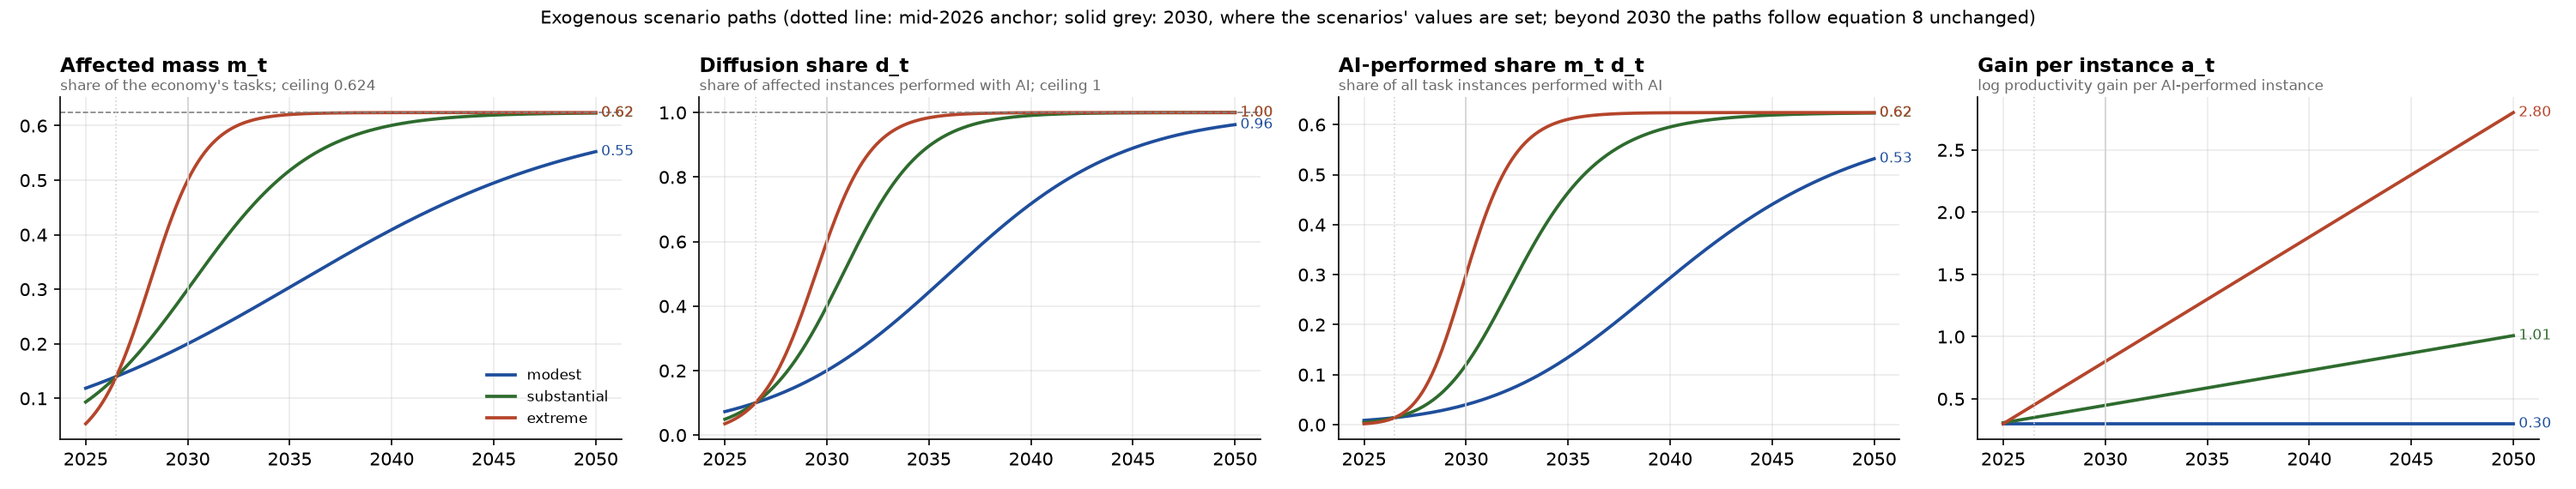
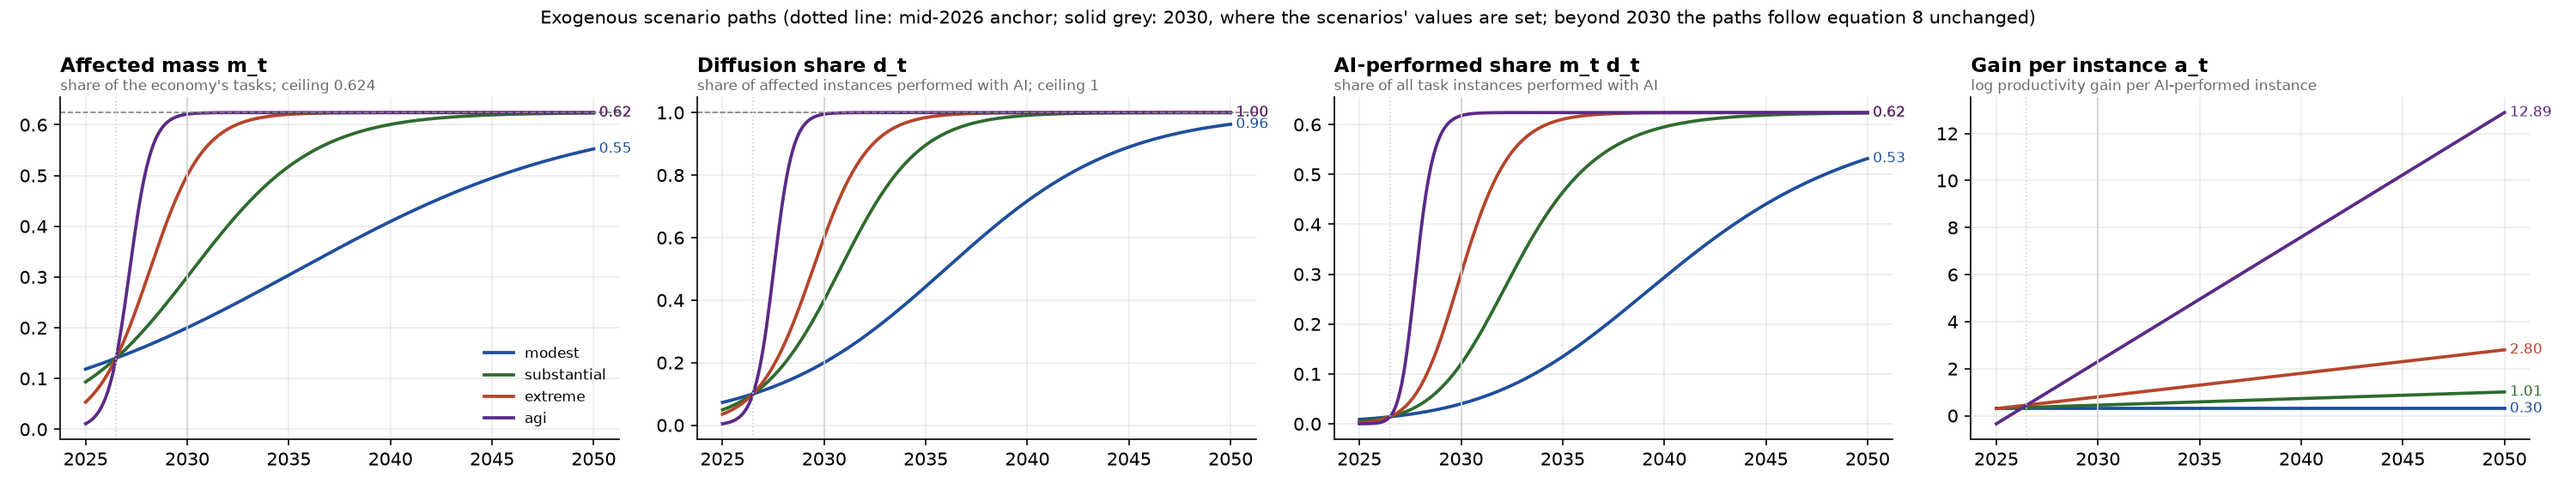
add AGI case

diff --git a/src/aimacro/calibration.py b/src/aimacro/calibration.py
@@ -10,6 +10,9 @@ from __future__ import annotations
 from dataclasses import dataclass, replace
 
 
+DEFAULT_SC_OVER_SL = 0.624   # cognitive share of employment, also the ceiling of the affected mass
+
+
 @dataclass(frozen=True)
 class Params:
     """Parameters common to all scenarios (Table 1, panels A and D)."""
@@ -17,7 +20,7 @@ class Params:
     # --- A. Technology, factor markets, ideas production ------------------
     sigma: float = 0.5            # elasticity of substitution across tasks
     sL0: float = 0.60             # base-period labor share
-    sC_over_sL: float = 0.624     # cognitive share of employment (CPS 2025)
+    sC_over_sL: float = DEFAULT_SC_OVER_SL  # cognitive share of employment (CPS 2025)
     r_bar: float = 0.115          # no-AI gross rental rate, per year
     delta: float = 0.05           # depreciation, per year (net return 6.5%)
     t0: float = 2024.0            # base period
@@ -136,6 +139,23 @@ EXTREME = Scenario(
     psi=0.90, rho=0.0, mu=0.04, thetaH=0.50,
 )
 
-SCENARIOS: dict[str, Scenario] = {s.name: s for s in (MODEST, SUBSTANTIAL, EXTREME)}
+# An AGI scenario beyond the paper's three (added in this repository, not in the paper).
+# AI reaches essentially all cognitive tasks and performs 99 percent of their instances by the
+# start of 2030, all of them automated (no augmentation, no new tasks), and the gain per task is
+# tenfold (ln 10 = 2.30 log points) at that date, still rising linearly afterwards as eq. (8)
+# prescribes.  Frictions are those of the extreme scenario.  The affected mass and the
+# diffusion share split the 99 percent symmetrically so that neither sits on its ceiling,
+# which the logistic path cannot reach.
+AGI_REPLACED_SHARE = 0.99
+_AGI_SPLIT = AGI_REPLACED_SHARE ** 0.5
+AGI = Scenario(
+    name="agi",
+    m2030=_AGI_SPLIT * DEFAULT_SC_OVER_SL, d2030=_AGI_SPLIT,
+    a_anchor=0.45, g_a=(2.302585 - 0.45) / (2030.0 - 2026.5),
+    psi=1.0, rho=0.0, mu=0.04, thetaH=0.50,
+)
+
+SCENARIOS: dict[str, Scenario] = {s.name: s for s in (MODEST, SUBSTANTIAL, EXTREME, AGI)}
+PAPER_SCENARIOS: dict[str, Scenario] = {s.name: s for s in (MODEST, SUBSTANTIAL, EXTREME)}
 
 DEFAULT_PARAMS = Params()

diff --git a/src/aimacro/paths.py b/src/aimacro/paths.py
@@ -5,6 +5,8 @@ from __future__ import annotations
 import math
 from dataclasses import dataclass
 
+from scipy.special import expit
+
 from .calibration import Params, Scenario
 
 
@@ -20,7 +22,12 @@ def logistic_midpoint(ceiling: float, x_target: float, kappa: float, t_target: f
 
 
 def logistic(t: float, ceiling: float, kappa: float, t_mid: float) -> float:
-    return ceiling / (1.0 + math.exp(-kappa * (t - t_mid)))
+    return ceiling * float(expit(kappa * (t - t_mid)))
+
+
+def logistic_complement(t: float, kappa: float, t_mid: float) -> float:
+    """1 - logistic(t)/ceiling, computed without cancellation when the path is near its ceiling."""
+    return float(expit(-kappa * (t - t_mid)))
 
 
 @dataclass(frozen=True)
@@ -30,6 +37,9 @@ class PathPoint:
     a: float    # log gain per AI-performed instance
     psi: float  # automation share
     rho: float  # reinstatement ratio
+    m_bar: float          # ceiling of the affected mass
+    m_frac_c: float       # 1 - m/m_bar, exact near the ceiling
+    d_c: float            # 1 - d, exact near the ceiling
 
 
 class AIPaths:
@@ -58,4 +68,9 @@ class AIPaths:
         return self.a0 + self.sc.g_a * (t - self.p.t0)
 
     def at(self, t: float) -> PathPoint:
-        return PathPoint(m=self.m(t), d=self.d(t), a=self.a(t), psi=self.sc.psi, rho=self.sc.rho)
+        return PathPoint(
+            m=self.m(t), d=self.d(t), a=self.a(t), psi=self.sc.psi, rho=self.sc.rho,
+            m_bar=self.m_bar,
+            m_frac_c=logistic_complement(t, self.kappa_m, self.t_m),
+            d_c=logistic_complement(t, self.kappa_d, self.t_d),
+        )

diff --git a/src/aimacro/plots.py b/src/aimacro/plots.py
@@ -13,9 +13,10 @@ import matplotlib.pyplot as plt  # noqa: E402
 import numpy as np  # noqa: E402
 import pandas as pd  # noqa: E402
 
+from .calibration import PAPER_SCENARIOS  # noqa: E402
 from .labor import steady_state  # noqa: E402
 
-COLORS = {"modest": "#1f4e9c", "substantial": "#2e6b2e", "extreme": "#b5452b"}
+COLORS = {"modest": "#1f4e9c", "substantial": "#2e6b2e", "extreme": "#b5452b", "agi": "#5b2a86"}
 PAPER_END = 2030.0
 
 
@@ -195,7 +196,8 @@ def make_figures(dfs: dict[str, pd.DataFrame], out: Path, start: float = 2025.0)
                     "(vertical line: start of 2030, the paper's horizon)")
     written.append(f)
     f = out / "scenarios_2025_2030.png"
-    scenario_panels(dfs, f, start, PAPER_END,
+    paper_dfs = {k: v for k, v in dfs.items() if k in PAPER_SCENARIOS} or dfs
+    scenario_panels(paper_dfs, f, start, PAPER_END,
                     "Replication of the paper's Figures 2-4: 2025-2030; labels are January 2030 values")
     written.append(f)
     f = out / "ai_paths.png"

diff --git a/src/aimacro/static.py b/src/aimacro/static.py
@@ -44,8 +44,14 @@ def instances(p: Params, pt: PathPoint) -> Instances:
     s = p.sigma
     md = pt.m * pt.d
     e_a = math.exp(-(1.0 - s) * pt.a)
-    shift = md * (1.0 - pt.rho * pt.psi - (1.0 - pt.psi) * e_a)
-    Lambda_C = p.sC_over_sL - shift
+    c = 1.0 - pt.rho * pt.psi - (1.0 - pt.psi) * e_a   # share of an AI-performed instance's mass that leaves labor
+    shift = md * c
+    # Lambda_C = m_bar - m d c.  Written as m_bar * [(1 - x) + x (1 - c)] with x = (m/m_bar) d and
+    # 1 - x = (1 - m/m_bar) + (m/m_bar)(1 - d), so that it stays exact when m and d sit at their
+    # ceilings (the AGI scenario), where the plain difference would cancel to zero.
+    x = (1.0 - pt.m_frac_c) * pt.d
+    one_minus_x = pt.m_frac_c + (1.0 - pt.m_frac_c) * pt.d_c
+    Lambda_C = pt.m_bar * (one_minus_x + x * (1.0 - c))
     B = p.sK0 + p.sL0 * pt.psi * md * (e_a - pt.rho)
     lN_tilde = -math.log(1.0 - shift)
     return Instances(Lambda_C=Lambda_C, B=B, lN_tilde=lN_tilde, md=md, a=pt.a)

diff --git a/README.md b/README.md
@@ -3,21 +3,22 @@
 A Python implementation of the model in Korinek, Jones, Sacher, Cotter and McCrory (2026),
 *Economic Scenarios for Transformative AI*, Anthropic Institute Working Paper 2026-02
 ([doc/econ_scenarios_transformative_ai.pdf](doc/econ_scenarios_transformative_ai.pdf)),
-calibrated with the paper's Table 1 and extended from the paper's 2030 horizon to 2050.
+calibrated with the paper's Table 1, extended from the paper's 2030 horizon to 2050, and with a
+fourth, AGI scenario added beyond the paper's three.
 
 ## Quick start
 
 ```bash
 uv sync                      # Python 3.12 virtualenv with numpy, scipy, pandas, matplotlib, pytest
 uv run pytest                # 151 acceptance tests: Tables 3, 5, 6 and the Section 3.2 steady state
-uv run aimacro               # simulate the three scenarios to 2050, print tables, write output/
+uv run aimacro               # simulate the four scenarios to 2050, print tables, write output/
 ```
 
 `uv run aimacro` writes to `output/`:
 
 | file | content |
 |---|---|
-| `table_2030.csv`, `table_2036.csv`, `table_2050.csv` | the three scenarios in the layout of the paper's Table 3 |
+| `table_2030.csv`, `table_2036.csv`, `table_2050.csv` | the four scenarios in the layout of the paper's Table 3 |
 | `annual_<scenario>.csv` | the same rows at the start of every year 2026-2050 |
 | `monthly_<scenario>.csv` | every endogenous variable of Table A.1, monthly |
 | `scenarios_2025_2030.png`, `scenarios.png`, `ai_paths.png`, `labor_market.png` | figures, see below |
@@ -25,7 +26,7 @@ uv run aimacro               # simulate the three scenarios to 2050, print table
 Python API:
 
 ```python
-from aimacro.calibration import SCENARIOS, DEFAULT_PARAMS
+from aimacro.calibration import SCENARIOS, PAPER_SCENARIOS, DEFAULT_PARAMS   # SCENARIOS adds "agi"
 from aimacro.simulate import simulate
 from aimacro.report import snapshot, table
 
@@ -38,7 +39,8 @@ simulate(SCENARIOS["extreme"].with_(eps=1.0, xi=0.9), t_end=2030.0)     # robust
 
 The package follows Appendix A of the paper (Table A.1, 44 equations per month) exactly:
 
-* `calibration.py`: every parameter of Table 1 and the three scenarios (modest, substantial, extreme).
+* `calibration.py`: every parameter of Table 1, the three scenarios of the paper (modest, substantial,
+  extreme) and the AGI scenario described below.
 * `paths.py`: logistic paths for the affected mass and diffusion through the mid-2026 anchor and
   the 2030 value (eq. 8, 8'), a linear path for the gain per task, constant automation share and
   reinstatement ratio.
@@ -68,6 +70,7 @@ the paper against the simulation at the start of 2030:
 A value passes if it is within one unit of the paper's last printed digit, or 1 percent of the
 printed value for the largest magnitudes. All 151 pass. Table 4 (outcomes implied by the survey)
 needs the respondent-level survey data, which the paper does not publish, so it is not tested.
+The AGI scenario has no counterpart in the paper and therefore no tests.
 
 Two details in the paper are ambiguous in print and were resolved by what reproduces its tables:
 
@@ -82,6 +85,8 @@ or the marginal product where employment trails demand), and all "percent above 
 figures are exponentiated log gaps.
 
 ## The extended horizon: 2036 and 2050
+
+This section covers the paper's three scenarios; the AGI scenario follows in the next one.
 
 The paper simulates 2024-2030 and explicitly declines to look further because it does not model
 robotics or physical tasks. This repository keeps the model unchanged and lets the exogenous
@@ -128,25 +133,91 @@ Features of the extended paths worth knowing before quoting them:
 * The ideas channel, "relatively minor" through 2030, becomes material by 2050: the ideas stock is
   17 and 39 percent above its no-AI path in the substantial and extreme scenarios.
 
+## An AGI scenario: 99 percent of cognitive work replaced
+
+A fourth scenario, `agi`, goes beyond the paper. It asks what the model implies if AI replaces
+99 percent of cognitive workers by the paper's scenario date. The paper's five scenario objects
+are set as follows, everything else as in the extreme scenario:
+
+| object | value | meaning |
+|---|---|---|
+| affected mass, 2030 | 0.621 (= sqrt(0.99) x 0.624) | AI reaches essentially all cognitive tasks |
+| diffusion share, 2030 | 0.995 (= sqrt(0.99)) | and is used on essentially every instance; the product is 99 percent of cognitive instances |
+| automation share | 1.0 | every AI-performed instance is done by AI alone, none augmented |
+| reinstatement ratio | 0 | no new tasks for cognitive workers |
+| gain per task | 0.45 at mid-2026, 2.30 (= ln 10, tenfold) in 2030, rising linearly after | AGI does the task ten times more productively |
+| search discount, posting speed, wage rigidity, capital elasticity | 0.04, 0.50, 0.5, 3 | the extreme scenario's frictions |
+
+"Replaced" is an input, the share of cognitive task instances performed by AI; how far cognitive
+employment actually falls is the model's output. The paths follow the same equation 8 as the
+other scenarios, which makes the logistics very steep (midpoints in 2027, most of the transition
+in 2028-2029). Two numerical notes: the affected mass and diffusion split the 99 percent
+symmetrically because a logistic cannot sit on its ceiling, and the surviving cognitive task mass
+is computed from the logistic complements so it does not cancel to zero once both paths saturate.
+
+| | 2030 | 2036 | 2050 |
+|---|---|---|---|
+| GDP, pct above no-AI path | 188 | 524 | 823 |
+| GDP growth, pct per year | 30.5 | 9.0 | 3.3 |
+| Average wage, pct above no-AI path | 158 | 394 | 599 |
+| Cognitive wage | -93 | -100 | -100 |
+| All-other wage | 187 | 397 | 599 |
+| Net return to capital, pct | 11.7 | 14.7 | 16.7 |
+| Labor share, pct of income | 37.6 | 44.4 | 45.0 |
+| Cognitive employment, pct since mid-2026 | -88.5 | -99.0 | -100 |
+| Unemployment, cognitive workers, pct | 81.6 | 91.4 | 100 |
+| Unemployment, all workers, pct | 32.7 | 10.0 | 4.9 |
+| Measured TFP, pct above no-AI path | 83 | 160 | 207 |
+| Ideas stock, pct above no-AI path | 3.8 | 28.2 | 76.1 |
+
+What the model says about such a world:
+
+* The transition is brutal and fast. Economy-wide unemployment peaks at 35 percent in 2029 and
+  GDP growth at 42 percent a year in the same year; cognitive employment is down 88 percent by
+  2030 and 99 percent by 2036, with the displaced workers taking a decade to be absorbed by the
+  other occupations (unemployment is back near 5 percent only by 2050).
+* Cognitive wages go to zero, not to a low level. With tasks as gross complements, the one
+  percent of cognitive instances left to humans would be valuable, but their mass shrinks toward
+  nothing as the logistics saturate while workers remain attached to the group, so the marginal
+  product of a cognitive worker vanishes. The cognitive group's unemployment rate reads 100
+  percent by 2050 because the group itself has essentially disappeared.
+* Everyone else gains enormously: the all-other wage is 2.9 times its no-AI path in 2030 and
+  7 times in 2050, and average wages rise with it once the cognitive group is small.
+* The gains are bounded by the weak link. Even with a tenfold gain per task in 2030 and a far
+  larger one later, measured TFP is 83 percent above path in 2030 and about triple it in 2050,
+  because the tasks AI does not perform (all physical and interpersonal work) cap output under
+  gross complementarity. GDP is nevertheless 9 times its no-AI path by 2050.
+* The labor share falls to 37 percent in 2029 and then recovers to 45 percent as the all-other
+  wage rises and the capital stock catches up. The ideas channel becomes large: ideas growth
+  peaks above 5 percent a year and the ideas stock is 76 percent above path in 2050.
+
+Caveats stack on top of the paper's own: the model has no robotics, so "all other" occupations
+are untouched by assumption; the capital-supply schedule and the matching function are
+calibrated to normal times and are being pushed to unemployment rates with no precedent; and the
+linear gain path continues past tenfold without limit (the output effect of that is small,
+because of the weak link, but the per-task number itself is not meaningful by the 2040s).
+
 ## Figures
 
 `uv run aimacro` writes the four figures below to `output/` (the PNGs are kept in git; the CSVs
-next to them are not). Blue is the modest scenario, green substantial, red extreme; dashed grey
-lines are the economy without AI.
+next to them are not). Blue is the modest scenario, green substantial, red extreme, purple the
+AGI scenario; dashed grey lines are the economy without AI.
 
 ### The paper's horizon, 2025-2030
 
-The panels of the paper's Figures 2-4 plus labor income, capital income and the ideas stock,
-each labelled with its January 2030 value. These are the numbers the acceptance tests check.
+The paper's three scenarios only: the panels of its Figures 2-4 plus labor income, capital income
+and the ideas stock, each labelled with its January 2030 value. These are the numbers the
+acceptance tests check.
 
 ![The three scenarios, 2025-2030](output/scenarios_2025_2030.png)
 
 ### The extended horizon, 2025-2050
 
-The same fifteen panels to 2050. The vertical line marks the start of 2030, where the paper
-stops; everything to its right is the extrapolation described in the previous section.
+The same fifteen panels to 2050 for all four scenarios. The vertical line marks the start of
+2030, where the paper stops; everything to its right is the extrapolation described above. The
+AGI scenario sets the scale of most panels, so read the paper's three against the 2025-2030 figure.
 
-![The three scenarios, 2025-2050](output/scenarios.png)
+![The four scenarios, 2025-2050](output/scenarios.png)
 
 ### The exogenous scenario paths
 
